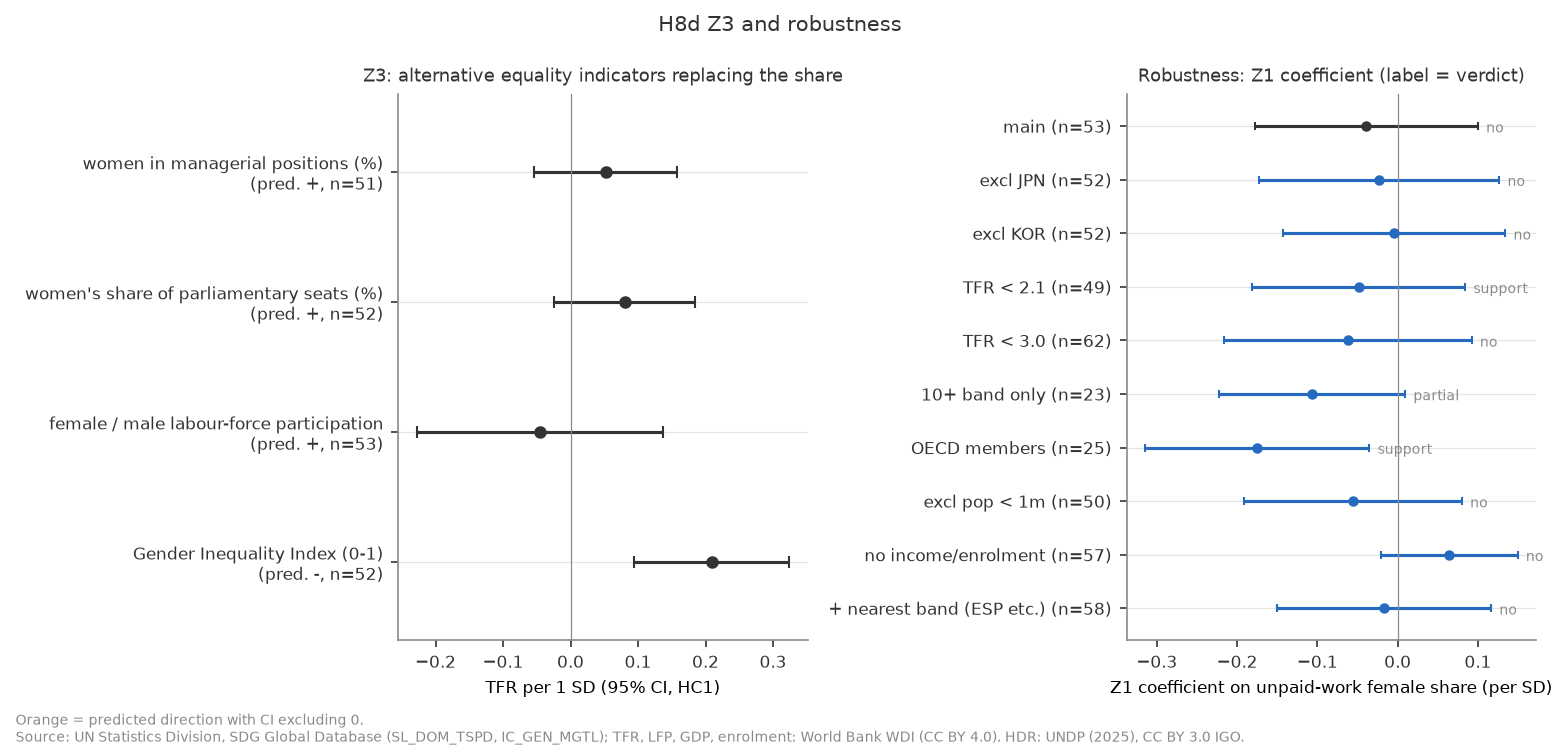
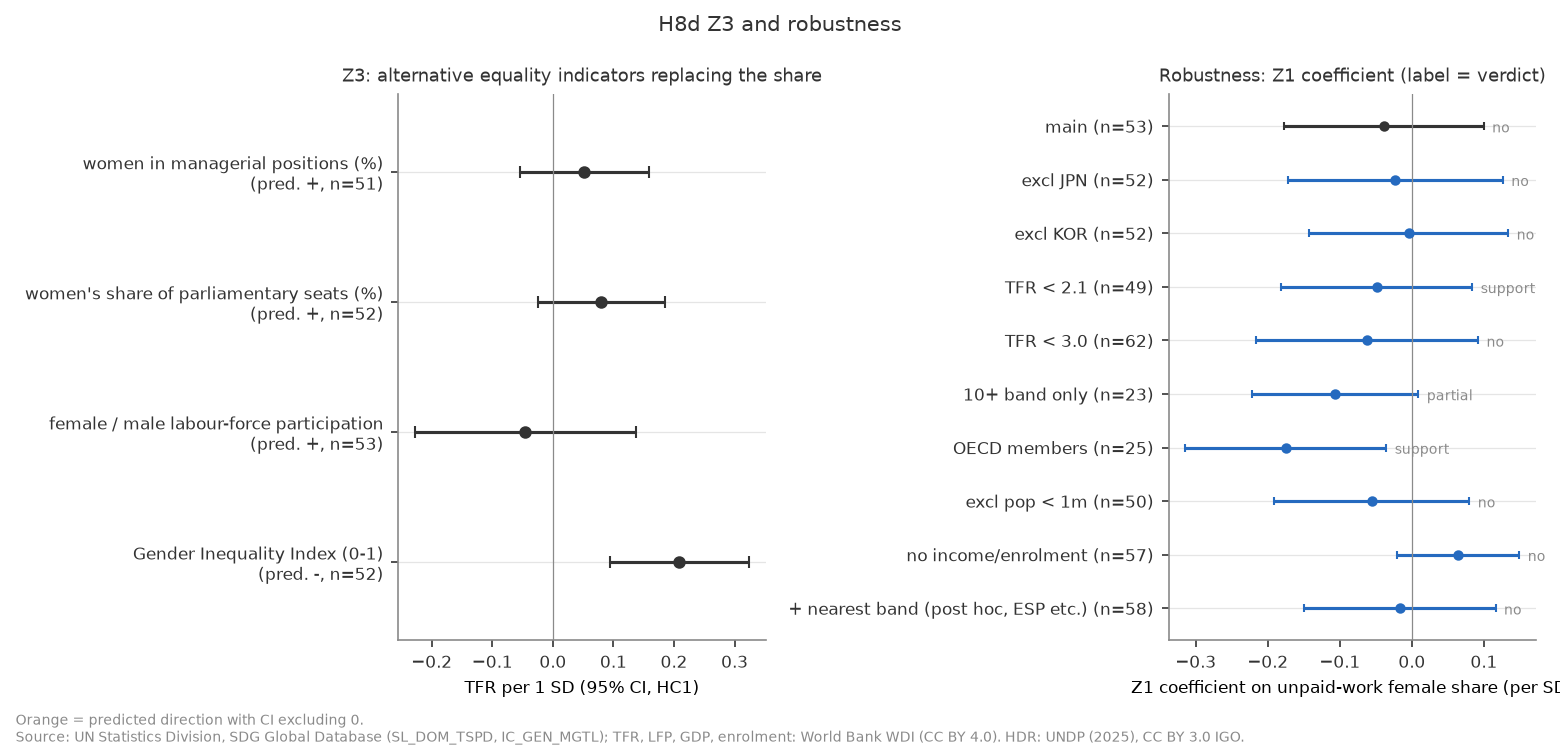
fix(growth-fertility): H8d の最終スタンスを引用＋限定の形にし、頑健性・探索的分析の記述を補う
methodology-reviewer の指摘への対応。判定ラベル（不支持）は変えない。
- framed_stance: 事前の文型を「事前の文型では」と引用し、仕様依存・韓国依存・消去法の限定を付ける
- 最も近い層の版を事後追加と明記、10+ の定義、E5（Nature 層別）・E6（観測年 >= 2010）
- Z6 に TFR の実際の年、Z5 の名目と実質 GDP 比の書き分け

diff --git a/themes/growth-fertility/src/theme_growth_fertility/analysis/a20261018_h8d_gender_equity.py b/themes/growth-fertility/src/theme_growth_fertility/analysis/a20261018_h8d_gender_equity.py
@@ -337,6 +337,54 @@ def final_stance_g(verdict: str, *, hits: Sequence[str], reverse: Sequence[str])
     return s
 
 
+ROBUST_JA = {
+    "TFR < 2.1": "TFR < 2.1",
+    "TFR < 3.0": "TFR < 3.0",
+    "OECD members": "OECD 加盟国のみ",
+    "10+ band only": "10+ 年齢層のみ",
+    "excl JPN": "日本除外",
+    "excl KOR": "韓国除外",
+    "excl pop < 1m": "人口 100 万未満除外",
+    "no income/enrolment": "所得・就学率なし",
+}
+ISO_JA = {"KOR": "韓国", "JPN": "日本", "ITA": "イタリア"}
+
+
+def framed_stance(
+    verdict: str,
+    *,
+    hits: Sequence[str],
+    reverse: Sequence[str],
+    n: int,
+    cut: float,
+    flips: Sequence[tuple[str, str]],
+    depends_on: Sequence[str] = (),
+) -> str:
+    """Report-facing stance: the pre-registered sentence quoted as 「事前の文型では」, followed by
+    the qualifications the methodology review required. `flips` = (pre-registered robustness label,
+    verdict) pairs whose verdict differs from the main one; `depends_on` = countries whose removal
+    turns an OECD 'support' back into the main verdict."""
+    s = f"事前の規則では{VERDICT_JA[verdict]}である。"
+    if verdict == "no":
+        s += (
+            f"TFR < {cut:g} の広い標本（{n} か国）では、事前の条件で無償労働の女性偏りと TFR の"
+            "関連を確かめられない。"
+        )
+    s += f"事前の文型では「{final_stance_g(verdict, hits=hits, reverse=reverse)}」となる。"
+    if flips:
+        parts = "、".join(f"{ROBUST_JA.get(lab, lab)}では{VERDICT_JA[v]}" for lab, v in flips)
+        s += f"ただし{parts}になり、判定は仕様に左右される。"
+    if depends_on:
+        names = "・".join(ISO_JA.get(i, i) for i in depends_on)
+        s += f"OECD の支持は{names} 1 か国に依存する（除くと{VERDICT_JA[verdict]}）。"
+    if verdict == "no":
+        s += (
+            "「残る説明は規範の拡散仮説だけ」は検証した候補が条件を満たさなかったという消去法の"
+            "言明で、規範の拡散そのものは測っていない。"
+        )
+    return s
+
+
 def z4_note(verdict: str, z4: Coef | None) -> str:
     """Pre-registered consistency remark from the within test (Z4a Δshare coefficient)."""
     if verdict in ("support", "partial"):
@@ -1027,7 +1075,7 @@ def describe(
     )
 
 
-def focus_table(cs: pl.DataFrame, sel: pl.DataFrame) -> None:
+def focus_table(cs: pl.DataFrame, sel: pl.DataFrame, tfr_obs: pl.DataFrame) -> None:
     print("\n== Z6: focus countries (latest observation; descriptive) ==")
     for grp, members in GROUPS.items():
         for iso in members:
@@ -1038,9 +1086,16 @@ def focus_table(cs: pl.DataFrame, sel: pl.DataFrame) -> None:
             x = r.row(0, named=True)
             hist = sel.filter(pl.col("iso3") == iso).select("year", "female_share").rows()
             h = " ".join(f"{y}:{s:.3f}" for y, s in hist)
+            tf = {
+                int(y): float(y)
+                for y, v in tfr_obs.filter(pl.col("iso3") == iso).select("year", "tfr").rows()
+                if v is not None
+            }
+            ty = h8.nearest_value(tf, int(x["year"]), WINDOW)
             print(
                 f"  {grp:<17} {iso} {x['year']} [{x['age']}] F={x['F']:.2f} M={x['M']:.2f} "
-                f"share={x['share']:.3f} flfp={x['flfp']:.1f} TFR={x['tfr']:.2f}  history {h}"
+                f"share={x['share']:.3f} flfp={x['flfp']:.1f} TFR={x['tfr']:.2f} "
+                f"(TFR year {'n/a' if ty is None else int(ty)})  history {h}"
             )
 
 
@@ -1068,7 +1123,16 @@ def run(data_dir: Path, fig_dir: Path) -> None:
 
     print()
     kf = run_z5(k, panel)
-    focus_table(cs, sel)
+    focus_table(cs, sel, panel.select("iso3", "year", "tfr"))
+
+    robust = robustness(panel, g, w, hw, cs)
+    fig_z1(main, fig_dir / "h8d_z1_z2_unpaid_share.png")
+    fig_z3(main, robust, fig_dir / "h8d_z3_alternatives_robustness.png")
+    fig_z4(z4a, z4b, fig_dir / "h8d_z4_within.png")
+    fig_z5(kf, k, fig_dir / "h8d_z5_korea_tutoring.png")
+    fig_z6(cs, fig_dir / "h8d_z6_focus_groups.png")
+    exploratory(cs, main, panel, g)
+    depends = exploratory_oecd(cs)
 
     print("\n== Verdict (pre-registered) ==")
     z4c = None if z4a.est is None else z4a.est.coefs["d_share"]
@@ -1079,23 +1143,32 @@ def run(data_dir: Path, fig_dir: Path) -> None:
     print(f"VERDICT G: {main.verdict} = {VERDICT_JA[main.verdict]}")
     stance = final_stance_g(main.verdict, hits=main.hits, reverse=main.reverse)
     note = z4_note(main.verdict, z4c)
-    print(f"FINAL STANCE: {stance}{('（' + note + '）') if note else ''}")
+    print(f"PRE-REGISTERED SENTENCE: {stance}{('（' + note + '）') if note else ''}")
     print(f"Z4 consistency note: {note or 'none'} (Z4a Δshare {_fmt(z4c)})")
-
-    robust = robustness(panel, g, w, hw, cs)
-    fig_z1(main, fig_dir / "h8d_z1_z2_unpaid_share.png")
-    fig_z3(main, robust, fig_dir / "h8d_z3_alternatives_robustness.png")
-    fig_z4(z4a, z4b, fig_dir / "h8d_z4_within.png")
-    fig_z5(kf, k, fig_dir / "h8d_z5_korea_tutoring.png")
-    fig_z6(cs, fig_dir / "h8d_z6_focus_groups.png")
-    exploratory(cs, main, panel)
-    exploratory_oecd(cs)
+    flips = [
+        (lab, r.verdict) for lab, r in robust if lab in ROBUST_JA and r.verdict != main.verdict
+    ]
+    oecd = dict(robust).get("OECD members")
+    dep = depends if oecd is not None and oecd.verdict == "support" else ()
+    framed = framed_stance(
+        main.verdict,
+        hits=main.hits,
+        reverse=main.reverse,
+        n=main.z1.n,
+        cut=CUT,
+        flips=flips,
+        depends_on=dep,
+    )
+    print(f"STANCE (as reported): {framed}")
 
 
 def robustness(
     panel: pl.DataFrame, g: pl.DataFrame, w: pl.DataFrame, hw: pl.DataFrame, cs: pl.DataFrame
 ) -> list[tuple[str, GResult]]:
-    print("\n== Robustness (pre-registered list) ==")
+    print(
+        "\n== Robustness (pre-registered list: 8 runnable of 10; the nearest-band run is an "
+        "added post hoc variant) =="
+    )
     small = h8c.small_countries(panel)
     cs10 = cross_section(select_band(w, priority=("10+",)), panel, g, hw)
     csfb = cross_section(select_band(w, fallback=True), panel, g, hw)
@@ -1108,7 +1181,7 @@ def robustness(
         ("OECD members", cs.filter(pl.col("iso3").is_in(list(OECD_MEMBERS))), {}),
         ("excl pop < 1m", cs.filter(~pl.col("iso3").is_in(small)), {}),
         ("no income/enrolment", cs, {"controls": ("flfp",)}),
-        ("+ nearest band (ESP etc.)", csfb, {}),
+        ("+ nearest band (post hoc, ESP etc.)", csfb, {}),
     ]
     out: list[tuple[str, GResult]] = []
     for lab, f, kw in specs:
@@ -1130,7 +1203,7 @@ def robustness(
     return out
 
 
-def exploratory(cs: pl.DataFrame, main: GResult, panel: pl.DataFrame) -> None:
+def exploratory(cs: pl.DataFrame, main: GResult, panel: pl.DataFrame, g: pl.DataFrame) -> None:
     print("\n== Exploratory (post hoc, not part of the verdict) ==")
     # E1: bivariate Z1 (no controls) and with female LFP only
     f = main.frame
@@ -1156,6 +1229,39 @@ def exploratory(cs: pl.DataFrame, main: GResult, panel: pl.DataFrame) -> None:
             f"E3 high-income only: n={e.n} share {_fmt(e.coefs['share'])}; Spearman "
             f"rho={r[0]:+.3f} p={r[1]:.3f}"
         )
+    # E5: ICATUS-adjusted (Nature=CA) vs country data (C) in the Z1 sample
+    nat = (
+        g.filter(
+            (pl.col("series") == UNPAID)
+            & (pl.col("sex") == "F")
+            & (pl.col("location") == "ALLAREA")
+        )
+        .select("iso3", "year", "age", "nature")
+        .unique(["iso3", "year", "age"], keep="first")
+    )
+    fn = f.join(nat, on=["iso3", "year", "age"], how="left")
+    counts = fn.group_by("nature").len().sort("nature").rows()
+    ca = sorted(fn.filter(pl.col("nature") == "CA")["iso3"].to_list())
+    print(f"E5 Z1 sample by Nature: {counts}; CA countries {ca}")
+    for nv in ("C", "CA"):
+        sub = fn.filter(pl.col("nature") == nv)
+        if sub.height >= len(Z1_VARS) + 3:
+            fs, _ = h8b.standardize(sub, Z1_VARS)
+            e = h8c.ols_hc1(fs, "tfr", Z1_VARS, label="E5")
+            print(f"E5 Nature={nv}: n={e.n} share {_fmt(e.coefs['share'])}")
+        else:
+            rr = (
+                h8b.spearman(sub["share"].to_list(), sub["tfr"].to_list())
+                if sub.height >= 3
+                else None
+            )
+            print(
+                f"E5 Nature={nv}: n={sub.height} (too few for Z1)"
+                + ("" if rr is None else f"; Spearman rho={rr[0]:+.3f} p={rr[1]:.3f}")
+            )
+    # E6: observation year >= 2010 only
+    r6 = run_g(cs.filter(pl.col("year") >= 2010), "E6 obs year >= 2010", verbose=False)
+    _brief("E6 obs year >= 2010", r6)
 
 
 def _brief(lab: str, r: GResult) -> None:
@@ -1165,7 +1271,7 @@ def _brief(lab: str, r: GResult) -> None:
     )
 
 
-def exploratory_oecd(cs: pl.DataFrame) -> None:
+def exploratory_oecd(cs: pl.DataFrame) -> tuple[str, ...]:
     """E4: the OECD robustness run gives 'support'. Does it rest on Japan / Korea (or Italy)?"""
     oe = cs.filter(pl.col("iso3").is_in(list(OECD_MEMBERS)))
     print(
@@ -1179,13 +1285,18 @@ def exploratory_oecd(cs: pl.DataFrame) -> None:
         )
         + "  (iso3:share/TFR)"
     )
+    single: list[str] = []
     for lab, drop in (
         ("E4 OECD excl JPN", ("JPN",)),
         ("E4 OECD excl KOR", ("KOR",)),
         ("E4 OECD excl JPN KOR", ("JPN", "KOR")),
         ("E4 OECD excl JPN KOR ITA", ("JPN", "KOR", "ITA")),
     ):
-        _brief(lab, run_g(oe.filter(~pl.col("iso3").is_in(list(drop))), lab, verbose=False))
+        r = run_g(oe.filter(~pl.col("iso3").is_in(list(drop))), lab, verbose=False)
+        _brief(lab, r)
+        if len(drop) == 1 and r.verdict != "support":
+            single.append(drop[0])
+    return tuple(single)
 
 
 def main() -> None:

diff --git a/themes/growth-fertility/tests/test_analysis_h8d.py b/themes/growth-fertility/tests/test_analysis_h8d.py
@@ -168,3 +168,26 @@ def test_z4_note_flags_disagreement() -> None:
     assert h8d.z4_note("no", SIG_NEG) == "国の中の変化では負の関連が見られる（主判定と食い違う）"
     assert h8d.z4_note("no", NS_NEG) == ""
     assert h8d.z4_note("support", None) == "国の中の変化では確かめられない"
+
+
+def test_framed_stance_quotes_template_and_qualifies() -> None:
+    s = h8d.framed_stance(
+        "no",
+        hits=[],
+        reverse=[],
+        n=53,
+        cut=2.5,
+        flips=[("TFR < 2.1", "support"), ("10+ band only", "partial")],
+        depends_on=["KOR"],
+    )
+    assert s.startswith("事前の規則では不支持である。TFR < 2.5 の広い標本（53 か国）")
+    assert "事前の文型では「家庭内の男女分業でも深さは説明できない。" in s
+    assert "TFR < 2.1では支持、10+ 年齢層のみでは部分的支持になり、判定は仕様に左右される" in s
+    assert "OECD の支持は韓国 1 か国に依存する" in s
+    assert "規範の拡散そのものは測っていない" in s
+
+
+def test_framed_stance_without_flips_has_no_qualifier() -> None:
+    s = h8d.framed_stance("support", hits=[], reverse=[], n=40, cut=2.5, flips=[])
+    assert s.startswith("事前の規則では支持である。事前の文型では「2 人未満への低下の深さは")
+    assert "左右される" not in s and "規範の拡散" not in s

diff --git a/themes/growth-fertility/reports/2026-10-18-h8d-gender-equity.md b/themes/growth-fertility/reports/2026-10-18-h8d-gender-equity.md
@@ -1,10 +1,10 @@
 # H8d: 2 人未満への低下の「深さ」は家庭内の男女分業で決まるか（2026-10-18, theme: growth-fertility）
 
 ## 要約（5 行）
-- **事前に固定した判定規則に従うと、仮説 G は「不支持」である。家庭内の男女分業でも深さは説明できない。2 人未満への低下について本シリーズで残る説明は、規範の拡散仮説だけである。** 主仕様（TFR < 2.5 の 53 か国）で、無償の家事・ケア労働のうち女性が担う割合（female_share）の標準化係数は −0.039 [−0.178, +0.100] で、CI が 0 を含む。交互作用（female_share × 女性労働参加率）も −0.033 [−0.091, +0.024] で CI が 0 を含む。女性労働参加率が高い半分（27 か国）では −0.122 [−0.237, −0.008] だが、判定には交互作用と両方そろう必要があり、満たさない。
+- **TFR < 2.5 の広い標本（53 か国）では、事前の条件で無償労働の女性偏りと TFR の関連を確かめられない（事前の規則では「不支持」）。ただし TFR < 2.1・OECD 加盟国のみでは「支持」、10+ 年齢層のみでは「部分的支持」になり、判定は仕様に左右される。OECD の支持は韓国 1 か国に依存する。** 事前の文型では「家庭内の男女分業でも深さは説明できない。2 人未満への低下について本シリーズで残る説明は、規範の拡散仮説だけである」となるが、後半は検証した候補が条件を満たさなかったという消去法の言明で、規範の拡散そのものは測っていない。主仕様（TFR < 2.5 の 53 か国）で、無償の家事・ケア労働のうち女性が担う割合（female_share）の標準化係数は −0.039 [−0.178, +0.100] で、CI が 0 を含む。交互作用（female_share × 女性労働参加率）も −0.033 [−0.091, +0.024] で CI が 0 を含む。女性労働参加率が高い半分（27 か国）では −0.122 [−0.237, −0.008] だが、判定には交互作用と両方そろう必要があり、満たさない。
 - 代替指標（Z3）は、女性管理職割合 +0.052、女性議席割合 +0.080、労働参加率の男女比 −0.045 で、どれも CI が 0 を含む。ジェンダー不平等指数（GII）は +0.209 [+0.094, +0.324] で、予測と**逆**（不平等な国ほど TFR が高い）である。ただし GII は 10 代の出生率と妊産婦死亡率を構成要素に含み、TFR と機械的に結びつく。判定規則の「逆向き」は Z1・Z2 だけが対象なので、判定上の逆向きはない。
-- **判定は事前リストの頑健性で変わる**。9 仕様のうち、TFR < 2.1（49 か国）と OECD 加盟国のみ（25 か国）で「支持」、10+ の年齢層に統一できる国のみ（23 か国）で「部分的支持」になる。残る 6 仕様は「不支持」のままである。探索的に調べると、OECD での「支持」は**韓国 1 か国に依存する**。韓国を除くと Z1 は −0.103 [−0.238, +0.032] になり、判定は「不支持」に戻る（E4）。一方、交互作用は韓国・日本・イタリアを除いても −0.11〜−0.13 で CI が 0 を含まない。豊かな国の中では「女性が働く国ほど家事の偏りと低出生が結びつく」形と**整合的**だが、事前の判定条件は満たさない。
-- 国の中の変化（Z4）でも関連は確かめられない。無償労働の観測が 2 時点ある 36 か国で、Δfemale_share の係数は −0.053 [−0.149, +0.044]、Spearman は −0.01 である。HDR の 10 年差分（173 区間・100 か国）で、労働参加率の男女比は −0.066、女性議席割合は +0.004 で、どちらも CI が 0 を含む。主判定（不支持）と食い違いはない。韓国の私教育費（Z5、記述のみ）は、生徒 1 人当たり月平均（名目）が 2015 年 24.4 万ウォンから 2024 年 47.4 万ウォンへほぼ倍増した。同じ期間に TFR は 1.24 から 0.75 へ下がった。2025 年の 1 人当たり費用は、子 1 人の世帯 51.8 万ウォン、子 3 人以上の世帯 35.8 万ウォンである。
+- **判定は事前リストの頑健性で変わる**。実行できた事前の 8 仕様のうち 3 仕様で変わる。TFR < 2.1（49 か国）と OECD 加盟国のみ（25 か国）で「支持」、10+ の年齢層のみ（23 か国）で「部分的支持」になる。残る 5 仕様と、事後に追加した「最も近い層」版 1 本は「不支持」のままである。探索的に調べると、OECD での「支持」は**韓国 1 か国に依存する**。韓国を除くと Z1 は −0.103 [−0.238, +0.032] になり、判定は「不支持」に戻る（E4）。一方、交互作用は韓国・日本・イタリアを除いても −0.11〜−0.13 で CI が 0 を含まない。豊かな国の中では「女性が働く国ほど家事の偏りと低出生が結びつく」形と**整合的**だが、事前の判定条件は満たさない。
+- 国の中の変化（Z4）でも関連は確かめられない。無償労働の観測が 2 時点ある 36 か国で、Δfemale_share の係数は −0.053 [−0.149, +0.044]、Spearman は −0.01 である。HDR の 10 年差分（173 区間・100 か国）で、労働参加率の男女比は −0.066、女性議席割合は +0.004 で、どちらも CI が 0 を含む。主判定（不支持）と食い違いはない。韓国の私教育費（Z5、記述のみ）は、生徒 1 人当たり月平均が 2015 年 24.4 万ウォンから 2024 年 47.4 万ウォンへほぼ倍増した（名目。物価上昇を含む）。同じ期間に TFR は 1.24 から 0.75 へ下がった。2025 年の 1 人当たり費用は、子 1 人の世帯 51.8 万ウォン、子 3 人以上の世帯 35.8 万ウォンである。
 - これは H8c の後に立てた**事後追加**の検証で、H8〜H8c の判定は変えない。結果は国レベルの横断の関連で、因果は主張しない。「不支持」は「事前に決めた条件で関連が確かめられない」という意味で、「家事分担は出生率と無関係」とは言えない（標本・測り方の限界は後述）。
 
 ## 問いと仮説
@@ -84,7 +84,7 @@ mart: `data/marts/gender_equity.parquet`（6,404 行、long）、`data/marts/hdr
 ### Z5: 韓国の私教育費（記述のみ）
 ![Z5](figures/h8d_z5_korea_tutoring.png)
 
-| 年 | 1 人当たり月平均（万ウォン、名目） | 参加率 % | 参加学生 1 人当たり | TFR（WDI） | 一人当たり実質 GDP 指数（2007 = 100） |
+| 年 | 1 人当たり月平均（万ウォン、**名目**） | 参加率 % | 参加学生 1 人当たり | TFR（WDI） | 一人当たり実質 GDP 指数（2007 = 100） |
 |---|---|---|---|---|---|
 | 2007 | 22.2 | 77.0 | — | 1.259 | 100.0 |
 | 2012 | 23.6 | 69.4 | — | 1.297 | 114.6 |
@@ -96,7 +96,9 @@ mart: `data/marts/gender_equity.parquet`（6,404 行、long）、`data/marts/hdr
 
 子ども数別（1 人当たり月平均・参加率）: 2024 年は子 1 人 53.6（83.6%）、2 人 49.5（82.0%）、3 人以上 36.5（71.6%）。2025 年は 51.8（79.6%）、47.4（77.4%）、35.8（67.7%）。
 
-2007–2015 の私教育費は横ばい（+10%）で、この間の TFR も 1.2 前後で横ばいだった。2016 年以降は私教育費が急に上がり（2015→2024 で +94%）、TFR は 1.24 から 0.75 へ下がった。名目値の伸びと実質 GDP 指数の比（stdout の最右列）は物価上昇を含むので過大である。CPI・名目 GDP は mart に無く、実質化していない。子どもが多い世帯ほど 1 人当たりの費用が低いのは「数より質」と整合的だが、世帯所得・子の学年構成の違いも含む。1 国の時系列で、識別はない。
+**名目支出の推移**: 2007–2015 の私教育費は横ばい（名目で +10%）で、この間の TFR も 1.2 前後で横ばいだった。2016 年以降は私教育費が急に上がり（2015→2024 で +94%、名目。物価上昇を含む）、TFR は 1.24 から 0.75 へ下がった。
+
+**WDI 実質 GDP 比（参考）**: stdout の最右列は、名目支出の指数を一人当たり**実質** GDP の指数で割った比（2007 = 100）で、2024 年 140.6。名目と実質の混合なので、物価上昇の分だけ過大である。CPI・名目 GDP は mart に無く、正しい所得比は出していない。子どもが多い世帯ほど 1 人当たりの費用が低いのは「数より質」と整合的だが、世帯所得・子の学年構成の違いも含む。1 国の時系列で、識別はない。
 
 ### Z6: 東アジア・南欧・北欧・英語圏
 ![Z6](figures/h8d_z6_focus_groups.png)
@@ -109,7 +111,9 @@ mart: `data/marts/gender_equity.parquet`（6,404 行、long）、`data/marts/hdr
 | | ESP | 優先層なし（20-74 のみ） | — | — |
 | 北欧 | DNK（2001、16+） | 0.590 | 59.9 | 1.74 |
 | | FIN（2021） / NOR（2023） / SWE（2011） | 0.567 / 0.558 / 0.556 | 55.9 / 62.4 / 59.5 | 1.46 / 1.40 / 1.90 |
-| 英語圏 | USA（2023） / GBR（2026） / CAN（2023） / AUS（2024） | 0.605 / 0.563 / 0.586 / 0.586 | 56.6 / 57.3 / 61.1 / 62.6 | 1.62 / 1.55 / 1.27 / 1.48 |
+| 英語圏 | USA（2023） / GBR（2026、TFR は 2024 年） / CAN（2023） / AUS（2024） | 0.605 / 0.563 / 0.586 / 0.586 | 56.6 / 57.3 / 61.1 / 62.6 | 1.62 / 1.55 / 1.27 / 1.48 |
+
+TFR は無償労働の観測年の値で、無ければ ±2 年の最近傍である。焦点 11 か国で年がずれるのは GBR（観測 2026、TFR 2024）だけ。
 
 日本と韓国は「女性の就業がそれなりに進み、家事の偏りが大きく、TFR が低い」位置にあり、仮説 G の描く形に合う。しかし北欧・英語圏の中では、偏りが同程度（0.56–0.61）でも TFR は 1.27（カナダ）から 1.90（スウェーデン 2011）まで広く散らばる。北欧の最近年（FIN 1.46・NOR 1.40）は偏りが最も小さいのに TFR が低い。日本と韓国の偏りは 2001→2021、2004→2024 でそれぞれ 0.87→0.80、0.84→0.73 と縮んだが、この間に TFR は下がった。
 
@@ -118,11 +122,12 @@ mart: `data/marts/gender_equity.parquet`（6,404 行、long）、`data/marts/hdr
 - Z2: 交互作用 −0.033 [−0.091, +0.024]、上位半分の勾配 −0.122 [−0.237, −0.008] → 両方そろわない。
 - Z3: 予測の向きで CI∌0 は 0 本。
 - 逆向き（Z1・Z2）: なし。
-- **VERDICT G: 不支持**。**最終スタンス: 家庭内の男女分業でも深さは説明できない。2 人未満への低下について本シリーズで残る説明は、規範の拡散仮説だけである。**
+- **VERDICT G: 不支持**（事前の規則のラベル）。
+- **最終スタンス（報告する文、stdout の `STANCE (as reported)`）: 事前の規則では不支持である。TFR < 2.5 の広い標本（53 か国）では、事前の条件で無償労働の女性偏りと TFR の関連を確かめられない。事前の文型では「家庭内の男女分業でも深さは説明できない。2 人未満への低下について本シリーズで残る説明は、規範の拡散仮説だけである。」となる。ただしTFR < 2.1では支持、10+ 年齢層のみでは部分的支持、OECD 加盟国のみでは支持になり、判定は仕様に左右される。OECD の支持は韓国 1 か国に依存する（除くと不支持）。「残る説明は規範の拡散仮説だけ」は検証した候補が条件を満たさなかったという消去法の言明で、規範の拡散そのものは測っていない。**
 - Z4 の整合性: 国の中の変化でも負の関連はない（主判定と食い違わない）。
 
 ## 頑健性
-事前リストの全仕様（家事のみ・ケアのみの 2 本は系列が無く実行不能）。
+事前リストは 10 本で、家事のみ・ケアのみの 2 本は系列が無く実行できなかった（実行 8 本）。表の最後の「＋最も近い層」は事後に追加した 1 本で、事前リストに含まない。「10+ の層のみ」は、各国・年で 10+ の層（女性と男性の両方）がある国・年だけを使い、15+ 等の他の層は使わない版である（10+ が無い国は落ちる）。
 
 | 仕様 | n | Z1 female_share | Z2 交互作用 | Z2 上位半分 | Z3 の該当 | 判定 |
 |---|---|---|---|---|---|---|
@@ -135,16 +140,18 @@ mart: `data/marts/gender_equity.parquet`（6,404 行、long）、`data/marts/hdr
 | OECD 加盟国のみ | 25 | **−0.175 [−0.315, −0.035]*** | **−0.131 [−0.192, −0.071]*** | **−0.304 [−0.425, −0.183]*** | 議席 | **支持** |
 | 人口 100 万未満除外 | 50 | −0.056 [−0.192, +0.080] | −0.022 [−0.082, +0.039] | −0.165 [−0.280, −0.049]* | なし | 不支持 |
 | 所得・就学率を外す | 57 | +0.064 [−0.020, +0.149] | −0.028 [−0.078, +0.023] | +0.027 [−0.101, +0.155] | なし | 不支持 |
-| ＋最も近い層（ESP 等） | 58 | −0.017 [−0.150, +0.116] | −0.045 [−0.099, +0.009] | −0.149 [−0.275, −0.023]* | 議席 | 不支持 |
+| ＋最も近い層（ESP 等、**事後追加**） | 58 | −0.017 [−0.150, +0.116] | −0.045 [−0.099, +0.009] | −0.149 [−0.275, −0.023]* | 議席 | 不支持 |
 
 \* = CI が 0 を含まない。どの仕様でも逆向き（Z1・Z2 が正で CI∌0）はない。GII はすべての仕様で正（予測と逆）で、10+ の層のみ（+0.114 [−0.101, +0.330]）を除き CI が 0 を含まない。
 
-**判定は 9 仕様中 3 仕様で変わる**。共通点は「低出生・高所得の国に絞ると負の関連が出る」ことだが、次の探索的分析で見るとおり、OECD の結果は韓国 1 か国に強く依存する。
+**判定は事前の 8 仕様中 3 仕様で変わる（事後追加の 1 本は変わらない）**。共通点は「低出生・高所得の国に絞ると負の関連が出る」ことだが、次の探索的分析で見るとおり、OECD の結果は韓国 1 か国に強く依存する。
 
 ## 探索的分析（事後、判定外）
 - **E1（統制の影響）**: Z1 標本で統制なしの female_share は +0.094 [+0.027, +0.161]、女性労働参加率だけを統制すると +0.052 [−0.041, +0.145]。負の点推定は所得と高等教育就学率をそろえたときだけ出る。
 - **E2（水準）**: female_share の代わりに男性の無償労働時間（% of day）を入れると +0.024 [−0.091, +0.139]、女性の時間では −0.007 [−0.106, +0.091]。どちらも関連は確かめられない。
 - **E3（高所得国のみ、WB 取得時分類）**: 31 か国で female_share −0.095 [−0.215, +0.024]、Spearman −0.185（p = 0.32）。
+- **E5（ICATUS 調整の有無）**: 主標本 53 か国のうち Nature=CA（国データを調整済み）は 18 か国（ALB・ARG・AZE・BLR・BTN・CHN・DNK・HKG・LUX・MKD・MLT・MUS・QAT・SLV・THA・TUN・URY・ZAF）、C は 35 か国。層別の Z1 は C −0.074 [−0.256, +0.108]、CA −0.066 [−0.251, +0.120]。どちらも主仕様と同じく負で CI が 0 を含む。
+- **E6（観測年 2010 年以降のみ）**: 45 か国で Z1 −0.033 [−0.175, +0.109]、交互作用 −0.036 [−0.109, +0.037]、上位半分 −0.125 [−0.271, +0.020]。判定規則を当てはめると「不支持」。
 - **E4（OECD の「支持」は誰に依存するか）**: OECD 25 か国から日本を除くと Z1 −0.193 [−0.377, −0.010]（支持のまま）。**韓国を除くと −0.103 [−0.238, +0.032]**、上位半分 −0.258 [−0.551, +0.036] で「不支持」に戻る。日韓を除くと −0.062、日韓伊を除くと −0.109 で、どちらも CI が 0 を含む。交互作用はどの除外でも −0.11〜−0.13 で CI が 0 を含まない。
 - **読み**: 豊かな国の中では、女性の労働参加率が高い国ほど家事の偏りと低い TFR が結びつく、という**交互作用の形**が残る。これは McDonald の議論と整合的である。ただし主効果（Z1）は韓国 1 か国の極端な TFR（0.75）を除くと確かめられない。標本は 22–25 か国で、事前の判定条件ではない。新しい仮説として扱うなら、OECD 内の無償労働の時系列（HETUS・ATUS 等）で事前登録し直す必要がある。
 
@@ -168,8 +175,8 @@ uv run python -m theme_growth_fertility.analysis.s20261017_h8_summary   # 記事
 乱数は使っていない。2 回実行して、stdout と 5 枚の PNG の sha256 が一致することを確認した（PNG は `metadata={"Software": None}`）。数値の出所はすべて `2026-10-18-h8d-gender-equity.stdout.txt`。出典表記: United Nations Statistics Division, SDG Global Database (Series SL_DOM_TSPD, IC_GEN_MGTL), https://unstats.un.org/sdgs/dataportal (accessed 2026-10-18)。UNDP (2025), Human Development Report 2025, composite indices time series, https://hdr.undp.org (accessed 2026-10-18), CC BY 3.0 IGO。교육부, 2025년 초중고 사교육비 조사 결과 보도자료（2026-03-12）, moe.go.kr（KOGL 제1유형）。World Bank WDI（CC BY 4.0）。
 
 ## チェックリスト回答
-- **A 問いと事前登録**: 問い・仮説 G/K・Z1〜Z6・判定規則・最終スタンスの文型・頑健性・言えないことは、追加データを見る前（2026-10-18）に design の H8d 節に固定した。H8c の後の**事後追加**であることと、H8〜H8c の判定を変えないことを明記した。design に細則のない 4 点（年齢層のフォールバック、最新年と ±2 年、上位半分の勾配の推定法、Z4a の端点）は最初の実行より前に実装とテストで固定し、本文に書いた。E1〜E4 は「探索的・判定外」と明記した。推定量は記述的関連（標準化横断係数）である。
+- **A 問いと事前登録**: 問い・仮説 G/K・Z1〜Z6・判定規則・最終スタンスの文型・頑健性・言えないことは、追加データを見る前（2026-10-18）に design の H8d 節に固定した。H8c の後の**事後追加**であることと、H8〜H8c の判定を変えないことを明記した。design に細則のない 4 点（年齢層のフォールバック、最新年と ±2 年、上位半分の勾配の推定法、Z4a の端点）は最初の実行より前に実装とテストで固定し、本文に書いた。E1〜E6 は「探索的・判定外」と明記した。推定量は記述的関連（標準化横断係数）である。
 - **B データ**: 全系列の出典・定義・単位・期間・国数を表に記載した。欠損は補完せず listwise とした。年齢層の混在、Nature=CA、日本・韓国の男性値、GBR 2026、優先層が無く落ちた 10 か国、家事・ケア別系列の欠如、韓国私教育費の名目・2020 年の落ち込み・対象外を列挙した。サンプル選択（TFR < 2.5、2000 年以降の最新年）は design どおりで、閾値を変えた結果を頑健性に載せた。
 - **C 識別戦略**: なし（横断の記述）。Z4 は国 FE・期間 FE の長期差分と first–last 差分の補助だけである。省略変数（家族規範・宗教・住宅・福祉）と、GII の機械的な関係を限界に挙げた。国レベルの結果を世帯に読み替えていない。韓国の時系列は記述のみ。
-- **D 推定と不確実性**: 横断は HC1（各国 1 行）、Z4b は国クラスタ SE（同じ国の区間は相関するため）。事前リストの頑健性を全部表にし、実行できなかった 2 本も書いた。判定が変わる 3 仕様を要約に書き、OECD の結果が韓国に依存することを探索的に示した。
-- **E 書き方**: 要約の第 1 文は事前の文型を断定形で埋めた。「関連が確かめられない」「整合的」と書き、因果効果とは書いていない。図は軸・単位・出典・n を記載した。限界節は 7 項目、再現手順と mart の行数を記載した。LLM 構造化は使っていない。
+- **D 推定と不確実性**: 横断は HC1（各国 1 行）、Z4b は国クラスタ SE（同じ国の区間は相関するため）。事前リストの頑健性を全部表にし、実行できなかった 2 本と事後追加の 1 本を区別して書いた。判定が変わる 3 仕様を要約に書き、OECD の結果が韓国に依存することを探索的に示した。
+- **E 書き方**: 要約の第 1 文は、広い標本で関連を確かめられないこと・判定が仕様に左右されること・OECD の支持が韓国に依存することを書き、事前の文型は「事前の文型では」と引用して直後に限定を付けた（methodology-reviewer の指摘による修正）。「関連が確かめられない」「整合的」と書き、因果効果とは書いていない。図は軸・単位・出典・n を記載した。限界節は 7 項目、再現手順と mart の行数を記載した。LLM 構造化は使っていない。

diff --git a/themes/growth-fertility/CLAUDE.md b/themes/growth-fertility/CLAUDE.md
@@ -105,7 +105,7 @@ tests/           fixtures/（実レスポンスの縮約）＋ Fake による状
 | `analysis/a20261017_h8_mechanisms.py` | `reports/2026-10-17-h8-mechanisms.md`（＋ `.stdout.txt`、`figures/h8_*.png`） | H8（最終回）: 死亡率低下と女子教育はどの仕組みで TFR を下げるか（M1〜M5）。`marts/dhs_mechanisms` から調査表（`survey_table`: Total 系・U5MR 5/10 年・ASFR・5 歳階級の結婚同棲割合・Bongaarts Cm）と調査×学歴セル（`cell_table`）を作り、T1 望む／望まない分解 s_w（重ならない鎖 `chain_pairs`、間隔 ≥ 3 年）、T2 理想数・TFR−理想・TFR の within 回帰（国 FE＋年トレンド）と U5MR<40 の記述、T3 初婚年齢の学歴勾配と Cm の first→last 分解 s_m、T4 調査 FE＋学歴ダミーの wanted/unwanted 勾配、T5 学歴×ln U5MR、T6 WDI 10 年長期差分（端点 ±2 年の最近傍 `long_diff_nearest`、SMAM 整形 `trim_smam`、国＋期間 FE、段階別の標準化係数）。事前登録のスコアカード `score_mechanisms` と最終仮説の文 `final_hypothesis` を stdout に出す。頑健性は事前リスト全部、探索的 E1〜E10（E10 = 学歴構成の Kitagawa 分解 `kitagawa`、図 `h8_09_e10_kitagawa.png`）は判定外。H1 の `fit`/`OIL_STATES`/`SMALL_POP` を import。純粋ヘルパは `tests/test_analysis_h8.py` |
 | `analysis/a20261018_h8b_within_group.py` | `reports/2026-10-18-h8b-within-group.md`（＋ `.stdout.txt`、`figures/h8b_*.png`） | H8b（事後追加）: 学歴群内（教育なし群）の望む数の低下と並走する候補 W 就業・S 子どもの就学・C 避妊・U 死亡率の比較。H8 の `survey_table`/`cell_table`/`pair_frame`/`fit_w` を**変更せず** import し、派生列 `add_derived`（married_cash_employed = married_employed × 現金割合 / 100、married_noncash_employed）を足す。X1 教育なしセルの horse race（国 FE＋年トレンド、標準化 `standardize`、1 本ずつ版）、X2 Total、X3 first→last Δ の Spearman、X4 調査 FE 内で就業を加えた g_w の縮み、X5 教育なし群の就業率の変化。判定 `leader`/`decide`（食い違いの細則は docstring）。頑健性は事前リスト全部＋within-SD、探索的 E1〜E5（就業の種類・富裕五分位・TFR・就業の富裕勾配・調査年）は判定外。純粋ヘルパは `tests/test_analysis_h8b.py` |
 | `analysis/a20261018_h8c_education_cost.py` | `reports/2026-10-18-h8c-education-cost.md`（＋ `.stdout.txt`、`figures/h8c_*.png`） | H8c（事後追加）: 教育投資・学歴社会の圧力（仮説 Q）は 2 人未満への低下を説明するか。Y1 = H8 T6 の 10 年長期差分（`h8.long_diff_nearest`/`t6_stage` を再利用、`y1_base` で `tert_enrol`・`school_life_exp`・`educ_exp_gdp`・`spend_per_student_sec`・`private_sec_share` を追加、段階 2 の標準化係数。10 年の短標本版は各国 1 区間で推定不能 → 5 年差分を代替として報告）、Y2 = OECD 横断（`oecd_education_finance` long → `extract`/`oecd_wide`/`OECD_SPEC`（`variant_spec` で頑健性）、各国の最新の共通年 `latest_common_year`（≥ 2012）、HC1 ＋ Spearman、相対賃金なし版）、Y3 = OECD within（国＋年 FE、2005–2023）＋ 2012→最新の長期差分 `endpoints`、Y4 = H8b X2 ＋ 調査年 ±2 年の WDI（`attach_nearest`）、Y5 = 日韓 vs 北欧の推移図。判定 `global_side`/`oecd_side`/`reverse_flags`/`verdict_q` と最終スタンスの文 `final_stance` を stdout に出す。頑健性は事前リスト全部（Y1 8・OECD 7）、探索的 E1〜E5 は判定外。H8・H8b スクリプトは無変更で import。純粋ヘルパは `tests/test_analysis_h8c.py` |
-| `analysis/a20261018_h8d_gender_equity.py` | `reports/2026-10-18-h8d-gender-equity.md`（＋ `.stdout.txt`、`figures/h8d_*.png`） | H8d（事後追加）: 2 人未満への低下の深さは家庭内の男女分業で決まるか（仮説 G）、韓国の私教育費（仮説 K、記述）。`gender_equity` long → `unpaid_wide`（SL_DOM_TSPD・ALLAREA・F と M）→ `select_band`（年齢層 15+ → 10+ → 20+ → 16+ → ALLAGE、`fallback` で `nearest_band`）→ `female_share`、`latest_per_country`（≥ 2000）、`cross_section`（WDI・IC_GEN_MGTL・HDR を ±2 年の最近傍で `h8c.attach_nearest`）。Z1 横断 HC1 標準化＋ Spearman、Z2 交互作用と女性労働参加率上位半分の部分標本、Z3 代替 4 指標（`ALT_SIGN`）、Z4a `within_pairs`（同じ年齢層の first–last）、Z4b HDR 10 年差分（`h8.long_diff_nearest`/`t6_stage`）、Z5 `korea_frame`、Z6 焦点 12 か国。判定 `verdict_g`/`alt_hits`/`reverse_g`/`z4_note`、最終スタンス `final_stance_g`。頑健性は事前リスト（家事のみ・ケアのみは系列なしで不実行）、探索的 E1〜E4（E4 = OECD の結果の日韓伊除外）は判定外。純粋ヘルパは `tests/test_analysis_h8d.py` |
+| `analysis/a20261018_h8d_gender_equity.py` | `reports/2026-10-18-h8d-gender-equity.md`（＋ `.stdout.txt`、`figures/h8d_*.png`） | H8d（事後追加）: 2 人未満への低下の深さは家庭内の男女分業で決まるか（仮説 G）、韓国の私教育費（仮説 K、記述）。`gender_equity` long → `unpaid_wide`（SL_DOM_TSPD・ALLAREA・F と M）→ `select_band`（年齢層 15+ → 10+ → 20+ → 16+ → ALLAGE、`fallback` で `nearest_band`）→ `female_share`、`latest_per_country`（≥ 2000）、`cross_section`（WDI・IC_GEN_MGTL・HDR を ±2 年の最近傍で `h8c.attach_nearest`）。Z1 横断 HC1 標準化＋ Spearman、Z2 交互作用と女性労働参加率上位半分の部分標本、Z3 代替 4 指標（`ALT_SIGN`）、Z4a `within_pairs`（同じ年齢層の first–last）、Z4b HDR 10 年差分（`h8.long_diff_nearest`/`t6_stage`）、Z5 `korea_frame`、Z6 焦点 12 か国。判定 `verdict_g`/`alt_hits`/`reverse_g`/`z4_note`、事前の文型 `final_stance_g` とそれを引用して限定を付ける報告用の文 `framed_stance`。頑健性は事前リスト（家事のみ・ケアのみは系列なしで不実行）、探索的 E1〜E6（E4 = OECD の結果の日韓伊除外、E5 = Nature 層別、E6 = 観測年 2010 年以降）は判定外。純粋ヘルパは `tests/test_analysis_h8d.py` |
 | `analysis/s20261005_summary.py` | `reports/2026-10-05-summary-growth-fertility.md`（＋ `.stdout.txt`、`figures/summary/s01_*.png`〜`s20_*.png`） | 総括（note.com 向け、日本語・一般読者）: H1〜H6 の結論を同じ mart から**再計算**して 20 枚の図にする（新しい推定なし。H1/H2/H3/H3b/H4/H5/H6 の推定関数を import。s19 = 理想子ども数 × TFR（2011 水準と 2011→2020 年代の変化）、s20 = 将来期待 × ΔTFR、s14 = 段階指標をそろえた国間／国内係数、s15 = DHS 五分位プロファイルと gap 散布、s16 = 家族支出 × TFR（within 係数と 2010 水準 × ΔTFR）、s17 = 欧州センサスの学歴勾配、s18 = 出生順位分解と韓国新婚夫婦）。図の文字は日本語（フォントは Hiragino Sans → … → Yu Gothic を検出、無ければ DejaVu で警告。下記規約の例外）。PNG は `metadata={"Software": None}` でバイト再現。純粋ヘルパは `tests/test_summary.py` |
 | `analysis/s20261013_h7_summary.py` | `reports/figures/summary_h7/h7s01_*.png`〜`h7s06_*.png` ＋ `captions.md`（図 → 主要数値つき 1 行キャプション） | H7 の note 記事用（日本語・一般読者）: H7 主仕様の T1〜T5 とスコアカードを H7 スクリプトの関数（`run_t1`〜`run_t5`, `event_means`, `select_answer`）で**再計算**して 6 枚の図にする（新しい推定なし、H7 スクリプトは無変更）。h7s01 = Gelbach 分解の積み上げ棒、h7s02 = 段階五分位の所得勾配、h7s03 = 転換開始時所得の分布と開始年、h7s04 = イベント時間軌跡、h7s05 = 4 象限（産油国を除く各象限の端 4 か国に日本語国名）、h7s06 = 採点表。フォント・PNG 再現規約は `s20261005_summary.py` と同じ（関数を import）。純粋ヘルパは `tests/test_summary_h7.py` |
 | `analysis/s20261017_h8_summary.py` | `reports/figures/summary_h8/h8s01_*.png`〜`h8s11_*.png` ＋ `captions.md`（図 → 主要数値つき 1 行キャプション） | H8 の note 記事用（日本語・一般読者）: H8 の T1〜T6・E10・スコアカードを H8 スクリプトの関数（`survey_table`, `cell_table`, `run_t1`〜`run_t5`, `t6_base`, `run_t6`, `edu_shares`, `group_rates`, `e10_rows`, `score_mechanisms`）で**再計算**して 6 枚の図にする（新しい推定なし、H8 スクリプトは無変更。T2 の仕様依存 2 本は H8 の探索的 E7・E4 と同じ式を H1 の `fit` で再実行）。h8s01 = 望む／望まない出生の分解、h8s02 = 学歴差の wanted/unwanted 棒、h8s03 = E10 Kitagawa（構成 vs 群内）と学歴群別変化、h8s04 = 初婚年齢の学歴差と Cm 分解、h8s05 = 死亡率係数の仕様依存と U5MR<40 の理想 vs TFR、h8s06 = 段階 2 の標準化係数とスコアカード、h8s07 = H8b の X1 標準化係数と X5 教育なし女性の就業率の変化（H8b スクリプトの `no_edu_frame`/`horse`/`run_x5` で再計算、`rise_summary`）、h8s08 = H8c の Y1 段階 2 の標準化係数（教育の長さ・費用を含む）、h8s09 = H8c の Y2 OECD 散布（私的負担割合 × TFR、相対賃金 × TFR。日本・韓国はラベル、北欧はマーカー＋凡例、`country_ja`）（H8c スクリプトの `y1_base`/`run_y1`/`oecd_panel`/`run_y2` で再計算）、h8s10 = H8d の Z1/Z2 散布（無償労働の女性偏り × TFR、女性労働参加率の上下半分で色分け、日本・韓国・北欧・イタリア・米英に `ge_label`）、h8s11 = H8d Z5 韓国の私教育費と TFR の推移（二軸）と子ども数別の 1 人当たり費用・参加率（H8d スクリプトの `select_band`/`cross_section`/`run_g`/`korea_frame` で再計算）。フォント・PNG 再現規約は `s20261005_summary.py` と同じ（関数を import）。純粋ヘルパは `tests/test_summary_h8.py` |
